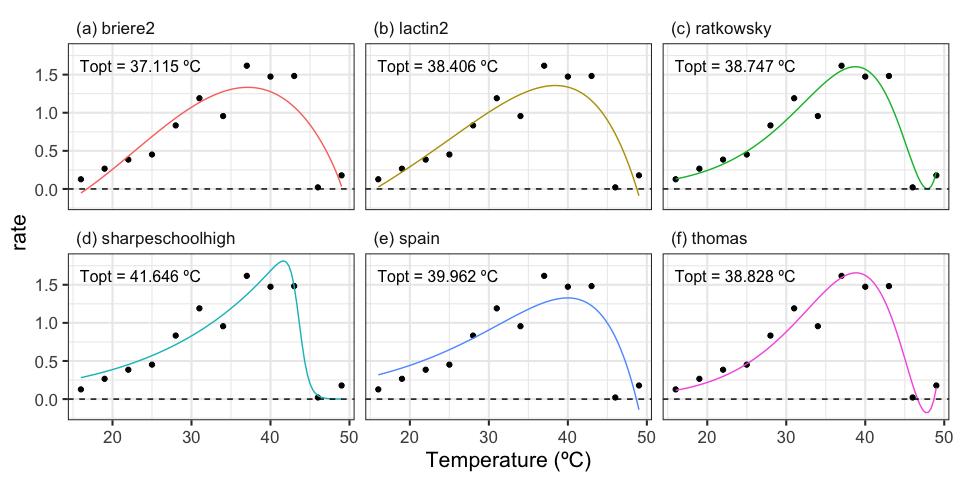
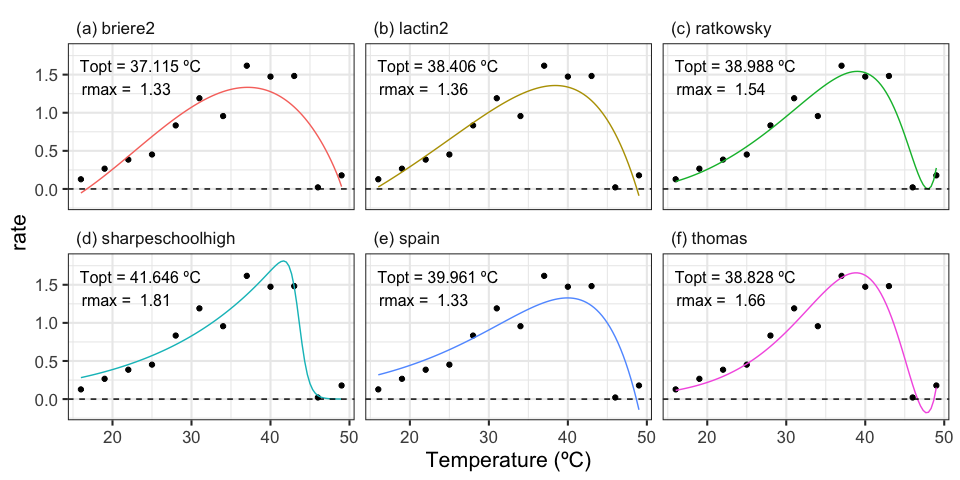
define est_params function and fix get_rmax

diff --git a/README.md b/README.md
@@ -100,7 +100,9 @@ d_models <- group_by(d_1, curve_id, growth.temp, process, flux) %>%
                                            iter = 500,
                                            start_lower = c(tmin = 0, tmax = 20, a = -10, b = -10),
                                            start_upper = c(tmin = 20, tmax = 50, a = 10, b = 10),
-                                           supp_errors = 'Y')),
+                                           supp_errors = 'Y',
+                                           lower = c(tmin = -10, tmax = 20, a = -10, b = -10),
+                                           upper = c(tmin = 20, tmax = 80, a = 10, b = 10))),
             spain = map(data, ~nls_multstart(rate ~ spain_1982(temp = temp, a, b, c, r0),
                                            data = .x,
                                            iter = 500,
@@ -129,20 +131,22 @@ d_preds <- d_stack %>%
   unnest(., output %>% map(augment, newdata = newdata)) %>%
   mutate(., temp = ifelse(model == 'sharpeschoolhigh', K - 273.15, temp))
 
-# estimate topt
+# estimate extra parameters
 
 # return NA if the model has not fitted
 get_topt <- possibly(get_topt, NA)
 
 topt <- d_stack %>%
-  mutate(., topt = map_dbl(output, get_topt)) %>%
+  mutate(., est = map(output, est_params)) %>%
   select(., -c(data, output)) %>%
-  mutate(., topt = ifelse(topt > 200, topt - 273.15, topt))
+  unnest(., est) %>%
+  mutate(., topt = ifelse(topt > 200, topt - 273.15, topt),
+         rmax = round(rmax, 2))
 
 # plot
 ggplot(d_preds, aes(temp, rate)) +
   geom_point(aes(temp, rate), d_1) +
-  geom_text(aes(-Inf, Inf, label = paste('Topt =', topt, 'ºC')),  hjust = -0.1, vjust = 2.5, topt, size = pts(12)) +
+  geom_text(aes(-Inf, Inf, label = paste('Topt =', topt, 'ºC\n', 'rmax = ', rmax)),  hjust = -0.1, vjust = 1.5, topt, size = pts(12)) +
   geom_line(aes(temp, .fitted, col = model)) +
   facet_wrap(~model, labeller = labeller(model = label_facets)) +
   theme_bw(base_size = 16) +
